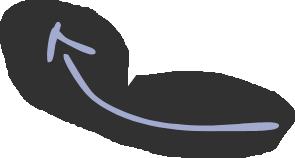
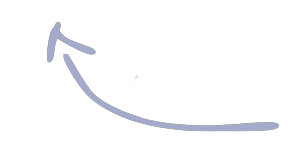
arrows and sticker properly places and aligned

diff --git a/src/lib/components/Projects.svelte b/src/lib/components/Projects.svelte
@@ -12,50 +12,6 @@
 </style> -->
 
 <div id="projects" class="relative projects h-screen w-full bg-screen-100">
-   <!-- 
-
-
-
-
-   <!-- <ArrowsDescription
-      leftREM="left-[10rem]"
-      topREM="top-[146rem]"
-      description="First gig"
-      imageArrow="firstGig"
-      imageHeight="h-16"
-   />
-
-   <ArrowsDescription
-      leftREM="left-[36rem]"
-      topREM="top-[172rem]"
-      description="First game"
-      imageArrow="firstGame"
-      imageHeight="h-16"
-      flexType="flex-row-reverse"
-   />
-
-   <ArrowsDescription
-      leftREM="left-[62.5rem]"
-      topREM="top-[149rem]"
-      description="Hand drawn"
-      imageArrow="handDrawn"
-      imageHeight="h-20"
-      flexType="flex-col"
-   />
-
-   <ArrowsDescription
-      leftREM="left-[84rem]"
-      topREM="top-[164rem]"
-      description="Hackathon"
-      imageArrow="hackathon"
-      imageHeight="h-28"
-      flexType="flex-col-reverse"
-   />
-   <img
-      class="absolute z-50 h-40 left-0 top-[173rem]"
-      src="../src/lib/components/img/queen.png"
-      alt="arrow"
-   /> -->
    <div
       class="relative w-full flex flex-row justify-center items-center gap-16 h-full"
    >
@@ -66,6 +22,14 @@
             topOfset="mt-[-1.5rem]"
             imageSticker="boatSticker"
             stickerHeight="h-12"
+         />
+
+         <ArrowsDescription
+            leftREM="ml-[0rem]"
+            topREM="mt-[-7rem]"
+            description="First gig"
+            imageArrow="firstGig"
+            imageHeight="h-16"
          />
       </div>
 
@@ -88,6 +52,15 @@
             imageSticker="villageRight"
             stickerHeight="h-20"
          />
+
+         <ArrowsDescription
+            leftREM="ml-[15rem]"
+            topREM="mt-[18rem]"
+            description="First game"
+            imageArrow="firstGame"
+            imageHeight="h-16"
+            flexType="flex-row-reverse"
+         />
       </div>
 
       <div class="flex flex-col items-center">
@@ -97,6 +70,15 @@
             topOfset="mt-[-1.8rem]"
             imageSticker="looneyTop"
             stickerHeight="h-[3.5rem]"
+         />
+
+         <ArrowsDescription
+            leftREM="ml-[20rem]"
+            topREM="mt-[-5rem]"
+            description="Hand drawn"
+            imageArrow="handDrawn"
+            imageHeight="h-20"
+            flexType="flex-col"
          />
       </div>
 
@@ -120,6 +102,19 @@
             imageSticker="screensaverRight"
             stickerHeight="h-20"
          />
+
+         <ArrowsDescription
+            leftREM="ml-[20rem]"
+            topREM="mt-[11rem]"
+            description="Hackathon"
+            imageArrow="hackathon"
+            imageHeight="h-28"
+            flexType="flex-col-reverse"
+         />
       </div>
+      <img
+      class="absolute z-50 h-56 mt-[45.3rem] mr-[102rem]"
+      src="../src/lib/components/img/queen.png"
+      alt="arrow" />
    </div>
 </div>

diff --git a/src/lib/components/ProjectCard.svelte b/src/lib/components/ProjectCard.svelte
@@ -4,7 +4,7 @@
     export let title;
 </script>
 
-<div class="relative w-64 h-[17rem] bg-cream-100 flex {cardOrder ? 'flex-col-reverse' : 'flex-col'} gap-5 px-4 py-2 rounded-lg items-center justify-center">
+<div class="relative w-64 h-[17rem] bg-cream-100 flex {cardOrder ? 'flex-col-reverse' : 'flex-col'} gap-5 px-4 py-2 rounded-lg items-center justify-center hover:scale-105 duration-100 hover:cursor-pointer">
     <div class="text-center">
         <h1 class="text-3xl">{title}</h1>
     </div>
